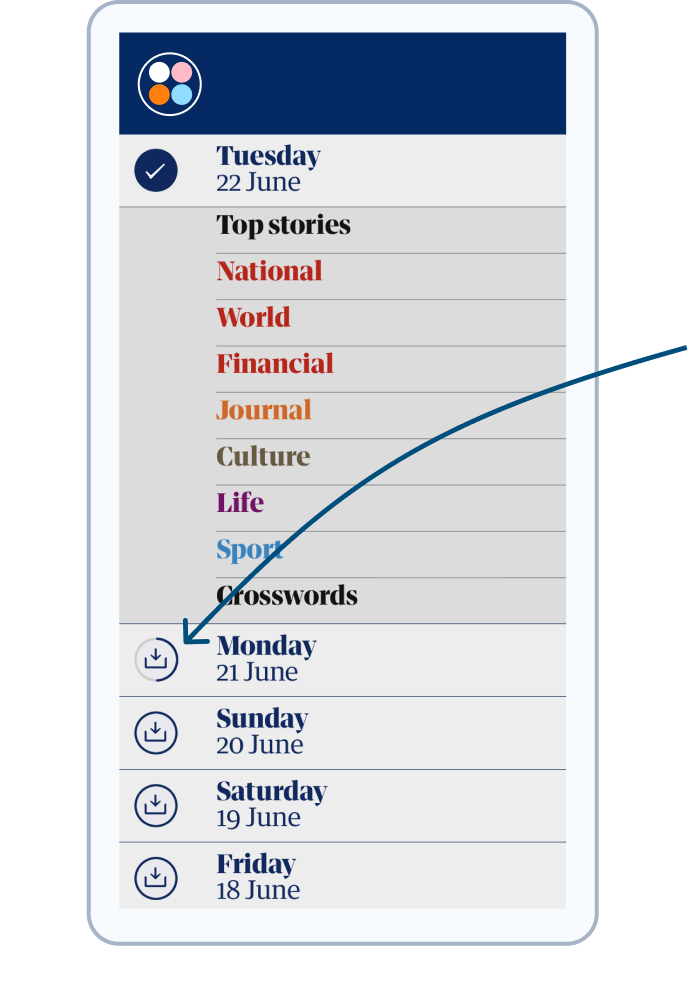
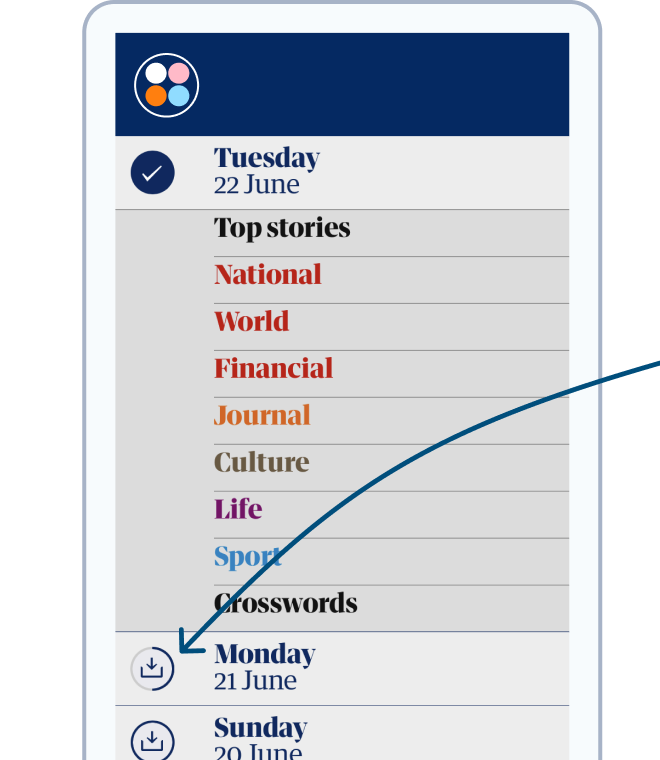
separate mob and desktop images for offline reading

Changed region(s): [[0.1212, 0.0, 0.9697, 1.0], [0.9697, 0.4539, 1.0, 0.4842], [0.1515, 0.2724, 0.1818, 0.3026]]

diff --git a/support-frontend/assets/pages/digital-subscription-landing/components/comparison/interactiveTableContents.jsx b/support-frontend/assets/pages/digital-subscription-landing/components/comparison/interactiveTableContents.jsx
@@ -22,7 +22,9 @@ import editionsDesktopPic from './temp/editionsDesktop.png';
 import guardianAppPic from './temp/guApp.png';
 import guardianAppDesktopPic from './temp/guAppDesktop.png';
 import offlineReadingEdPic from './temp/offlineReadingEditions.png';
+import offlineReadingEdDesktopPic from './temp/offlineReadingEditionsDesktop.png';
 import offlineReadingGuPic from './temp/offlineReadingGu.png';
+import offlineReadingGuDesktopPic from './temp/offlineReadingGuDesktop.png';
 import crosswordsPic from './temp/crosswords.png';
 import crosswordsDesktopPic from './temp/crosswordsDesktop.png';
 
@@ -196,6 +198,10 @@ const appFeatureImageContainer = css`
 
   img {
     max-height: 250px;
+
+    ${until.tablet} {
+      max-width: 130px;
+    }
   }
 `;
 
@@ -234,7 +240,7 @@ const appFeatureContent = css`
 
   /* Apply opposite margin if preceded by an image
   https://developer.mozilla.org/en-US/docs/Web/CSS/Adjacent_sibling_combinator */
-  img + & {
+  picture + & {
     margin-left: ${space[4]}px;
     margin-right: 0;
   }
@@ -418,7 +424,14 @@ export const rows = [
     details: (
       <div css={detailsCellOfflineReading}>
         <div css={appFeatureImageContainer}>
-          <img src={offlineReadingEdPic} alt="" />
+          <picture>
+            <source media={`(max-width: ${breakpoints.tablet - 1}px)`} srcSet={offlineReadingEdPic} />
+            <source media={`(min-width: ${breakpoints.tablet}px)`} srcSet={offlineReadingEdDesktopPic} />
+            <img
+              src={offlineReadingEdPic}
+              alt=""
+            />
+          </picture>
           <AppFeatureWithIcon appName="Editions">
             <p>Download any edition from the last 30 days to read anytime, anywhere you are.</p>
           </AppFeatureWithIcon>
@@ -427,7 +440,14 @@ export const rows = [
           <AppFeatureWithIcon appName="Guardian">
             <p><strong>Enhanced offline reading.</strong> Download the news whenever it suits you</p>
           </AppFeatureWithIcon>
-          <img src={offlineReadingGuPic} alt="" />
+          <picture>
+            <source media={`(max-width: ${breakpoints.tablet - 1}px)`} srcSet={offlineReadingGuPic} />
+            <source media={`(min-width: ${breakpoints.tablet}px)`} srcSet={offlineReadingGuDesktopPic} />
+            <img
+              src={offlineReadingGuPic}
+              alt=""
+            />
+          </picture>
         </div>
       </div>
     ),
